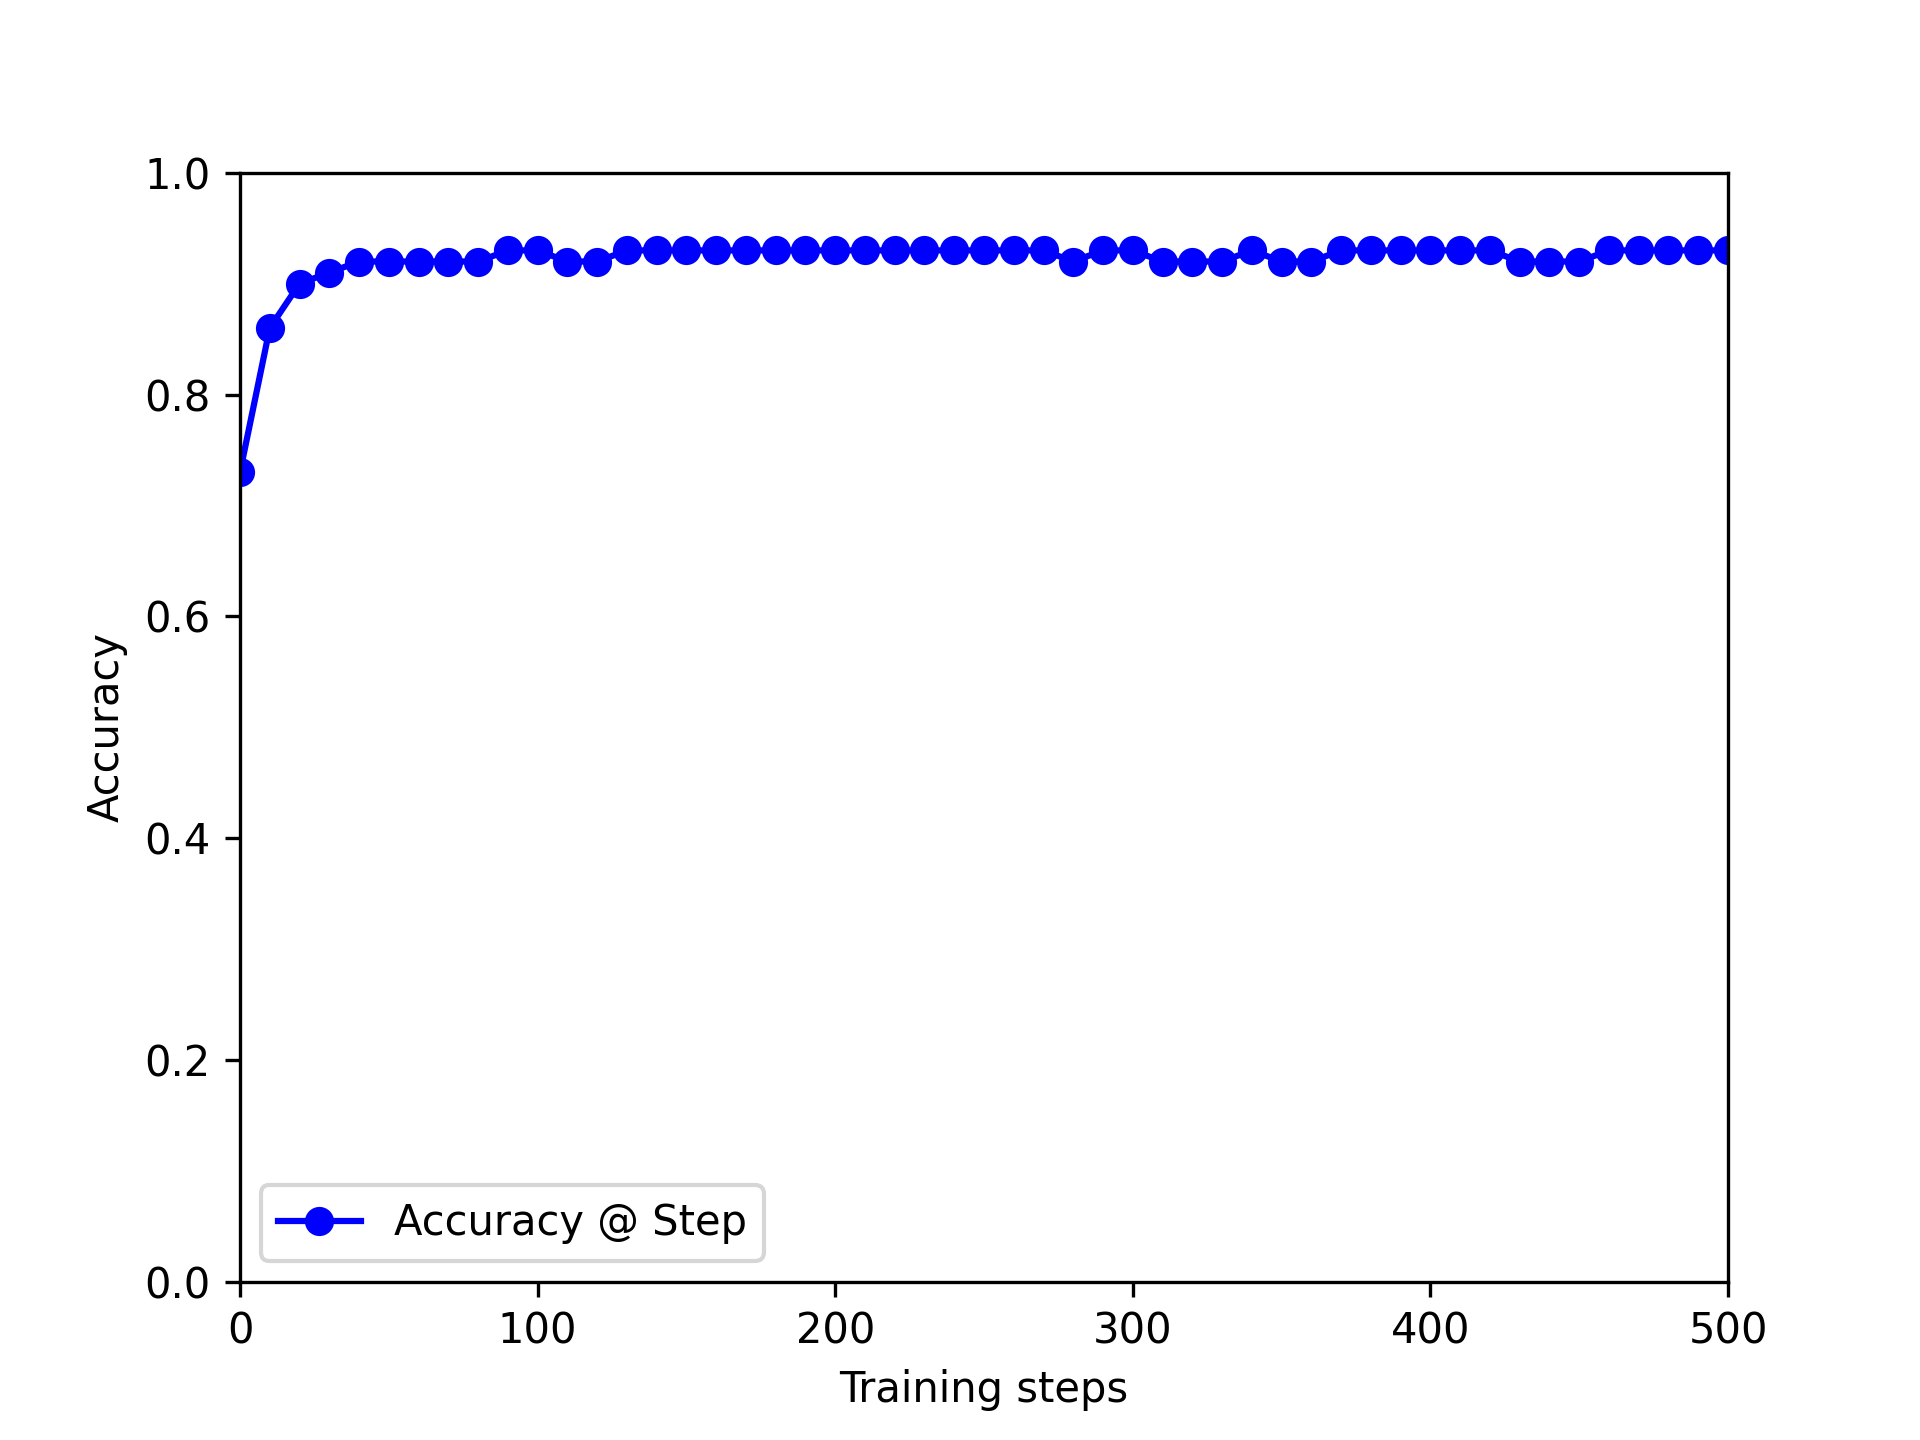
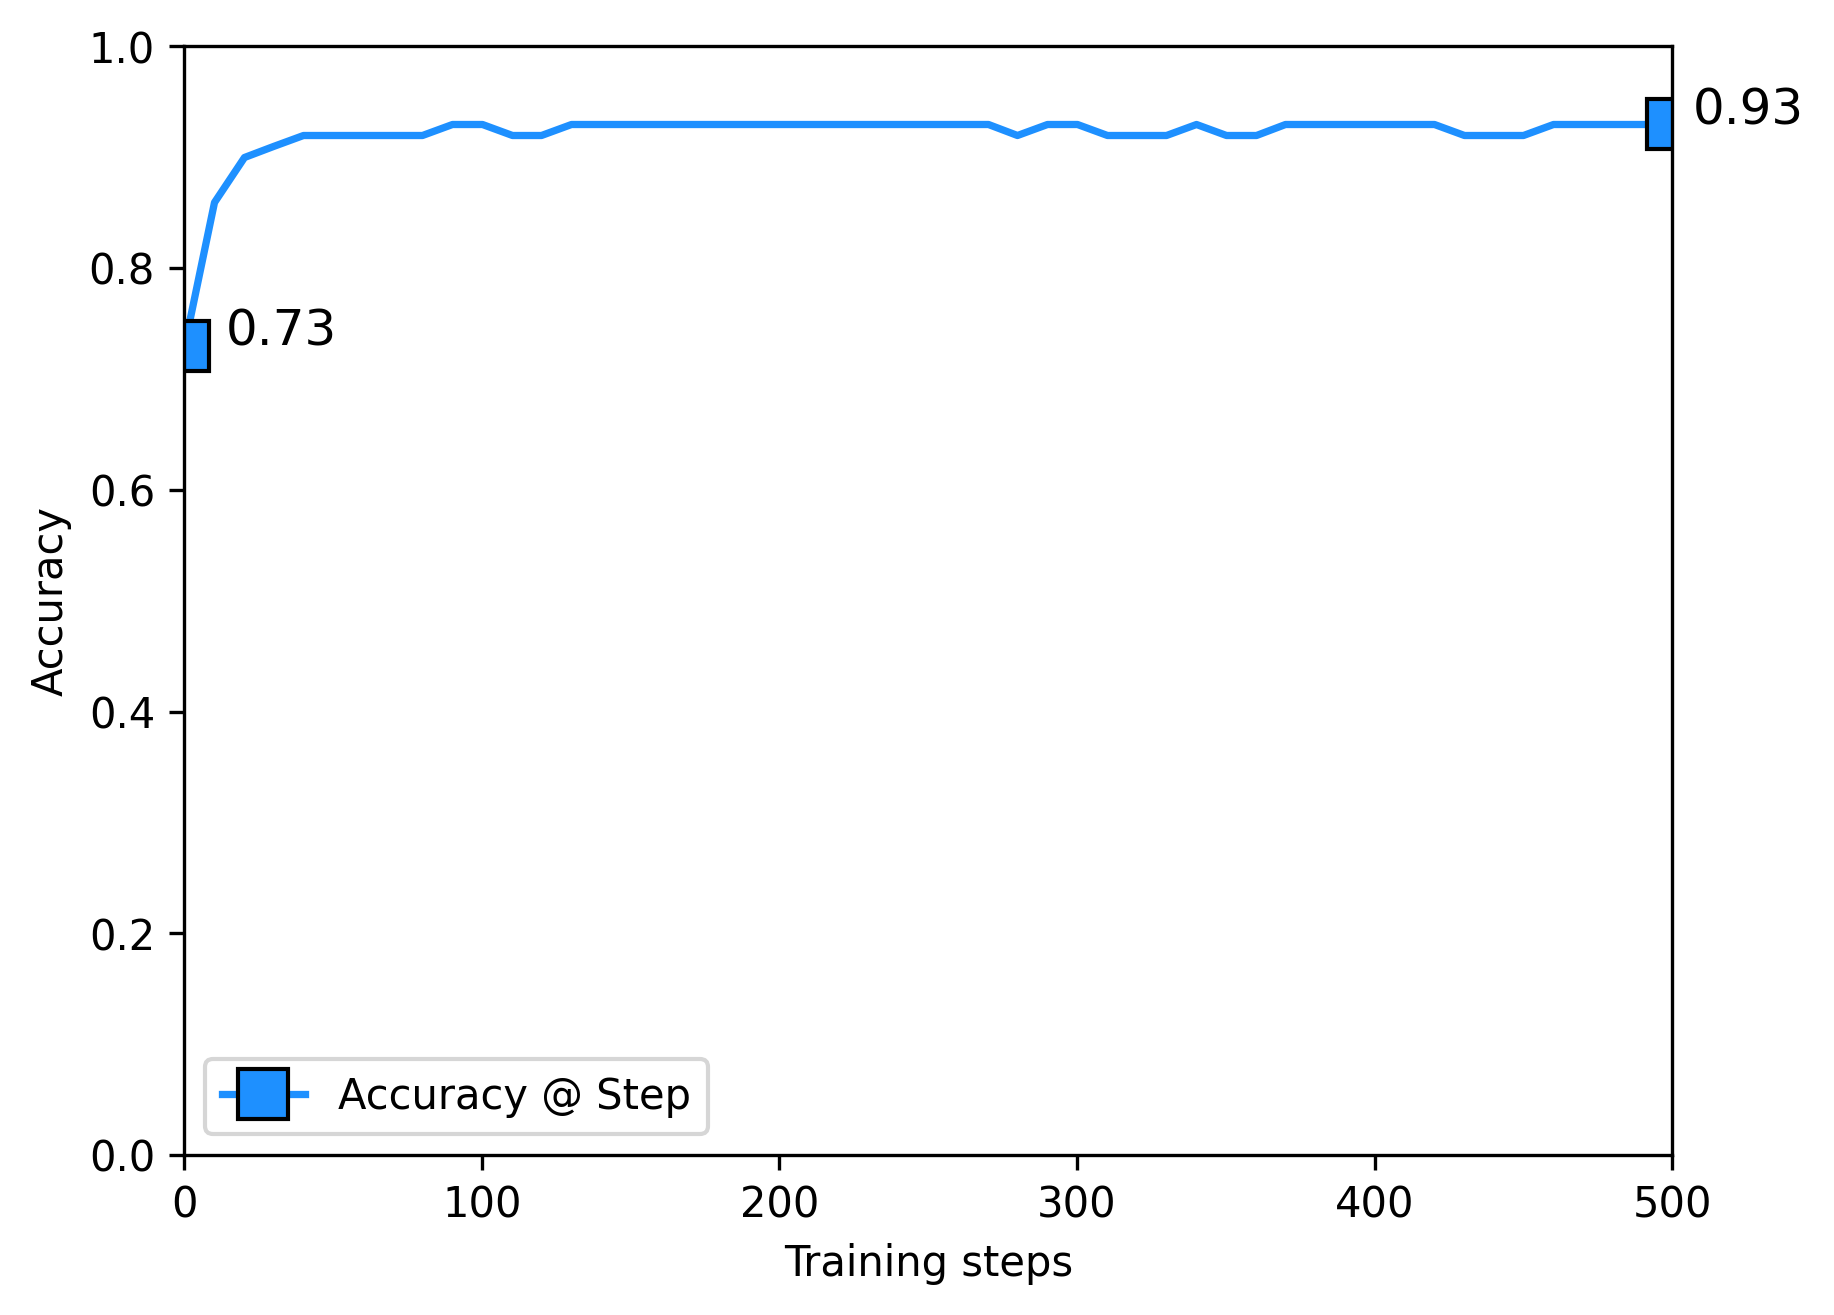
new plots

Changed region(s): [[0.0, 0.0312, 0.9945, 0.9977], [0.0311, 0.6859, 0.0622, 0.7171], [0.0311, 0.3741, 0.0622, 0.4053]]

diff --git a/plot.py b/plot.py
@@ -4,11 +4,15 @@ for plt_type in ['auc', 'train_loss']:
     if plt_type == 'auc':
         xlbl = 'Training steps'
         ylbl = 'Accuracy'
-        clr = 'blue'
+        clr = 'dodgerblue'
+        y_from = 0
+        y_to = 1
     else:
         xlbl = 'Training steps'
         ylbl = 'Loss'
-        clr = 'orange'
+        clr = 'darkorange'
+        y_from = 0.33
+        y_to = 0.96
 
     with open(plt_type + '.csv', 'r') as csv:
         lines = csv.readlines()
@@ -18,13 +22,26 @@ for plt_type in ['auc', 'train_loss']:
             data = line.split(',')
             x_axis.append(int((data[0])))
             y_axis.append(float(str(data[1])[:4]))
-        linestyle = '-'
-        plt.ylim(0, 1)
+        plt.ylim(y_from, y_to)
         plt.xlim(0, 500)
-        plt.plot(x_axis, y_axis, linestyle=linestyle, color=clr, label=ylbl + ' @ Step', marker='o')
+        plt.plot(x_axis,
+                 y_axis,
+                 linestyle='-',
+                 linewidth=1.75,
+                 color=clr,
+                 label=ylbl + ' @ Step',
+                 marker='s',
+                 markevery=50,
+                 markersize=12,
+                 markeredgecolor='black',
+                 aa=True,
+                 snap=True)
+        plt.annotate(str(y_axis[0]), xy=(x_axis[0], y_axis[0]), xytext=(10, 0), textcoords='offset points', size=12)
+        plt.annotate(str(y_axis[len(y_axis) - 1]), xy=(x_axis[len(x_axis) - 1], y_axis[len(y_axis) - 1]),
+                     xytext=(5, 0), textcoords='offset points', size=12)
 
     plt.xlabel(xlbl)
     plt.ylabel(ylbl)
     plt.legend()
-    plt.savefig(plt_type + '.png', dpi=300)
+    plt.savefig(plt_type + '.png', dpi=300, bbox_inches='tight')
     plt.show()
